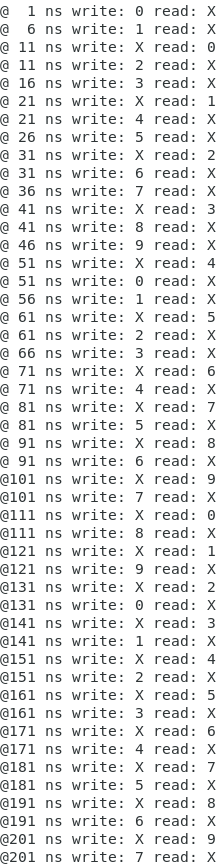
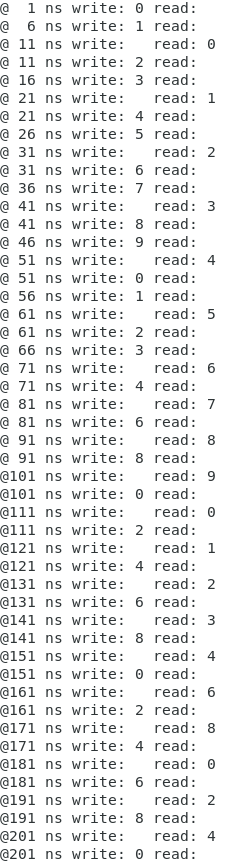
fixed small errors in A2 solutions

diff --git a/Assignment 2/Assignment 2 Q2/producer.h b/Assignment 2/Assignment 2 Q2/producer.h
@@ -16,9 +16,9 @@ public:
             wait();
 
             if (out->write(data)) {
-		cout << "@" << setw(6) << sc_time_stamp() << " write: " << data << " read: X" << endl;
-                data = (data + 1) % 10;
+		cout << "@" << setw(6) << sc_time_stamp() << " write: " << data << " read:  " << endl;
             }
+            data = (data + 1) % 10;
         }
     }
 

diff --git a/Assignment 2/Assignment 2 Q2/consumer.h b/Assignment 2/Assignment 2 Q2/consumer.h
@@ -15,7 +15,7 @@ public:
             wait();
 
             if (in->read(data)) {
-		cout << "@" << setw(6) << sc_time_stamp() << " write: X " << "read: " << data << endl;
+		cout << "@" << setw(6) << sc_time_stamp() << " write:   " << "read: " << data << endl;
             }
         }
     }
